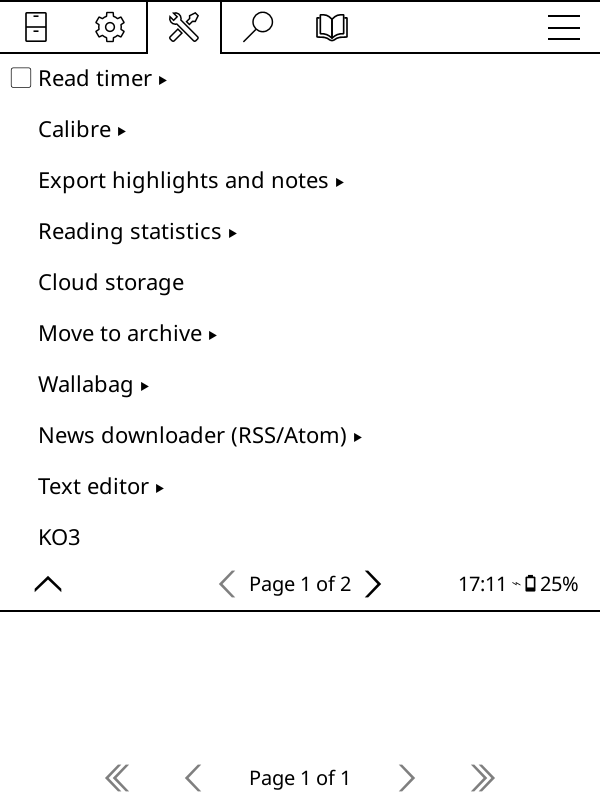
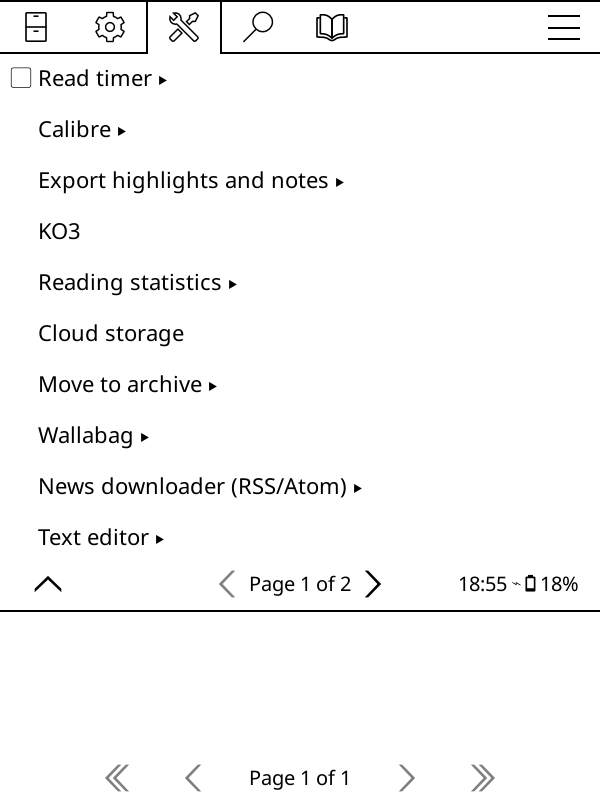
Put KO3 fourth on the Tools tab
The entry sat just before Profiles, which is already the twelfth row on a
600px screen, so it landed on page 2 of Tools. Insert it at a fixed early
position (fourth, before Statistics) in the shared menu order instead.
This keeps it on page 1 as more built-in rows appear, while still using
the native order table rather than a submenu.

Verified in the emulator: Read timer, Calibre, Export highlights, KO3,
Reading statistics on page 1.

diff --git a/README.md b/README.md
@@ -39,7 +39,7 @@ details captured from a live work.
 | ![Work actions while signed out](screenshots/27-work-actions-signed-out.png) | ![Account page](screenshots/28-account.png) |
 | ![Chapter-only TOC](screenshots/14-reader-toc.png) | ![Back to AO3 in menu](screenshots/15-reader-back-to-ao3.png) |
 | ![Back to AO3 at end](screenshots/16-end-dialog-back.png) | ![Back on the AO3 screen](screenshots/17-back-on-ao3-screen.png) |
-| ![KO3 at the bottom of Tools](screenshots/34-tools-menu.png) | |
+| ![KO3 on the first Tools page](screenshots/34-tools-menu.png) | |
 
 ## Install
 
@@ -404,8 +404,9 @@ Tested in the KOReader emulator with a native HTTP client (no browser):
   writing, relay submission and token handling; the four screens render in
   the emulator (`screenshots/31`–`33`, `36`). The relay was tested live end
   to end from `bugreport.lua` (issues #1 and #2, then closed).
-- The KO3 entry is directly on the Tools tab, at the bottom of its first page
-  (`screenshots/34`), not nested under More tools.
+- The KO3 entry is directly on the Tools tab, fourth from the top so it stays
+  on page 1 even when later rows move to page 2 (`screenshots/34`), not nested
+  under More tools.
 - The author tabs: tapping **Bookmarks** opens the author's bookmarked works
   (`screenshots/35`). The title bar's close target is trimmed to the bar so it
   no longer covers the rightmost tab.
